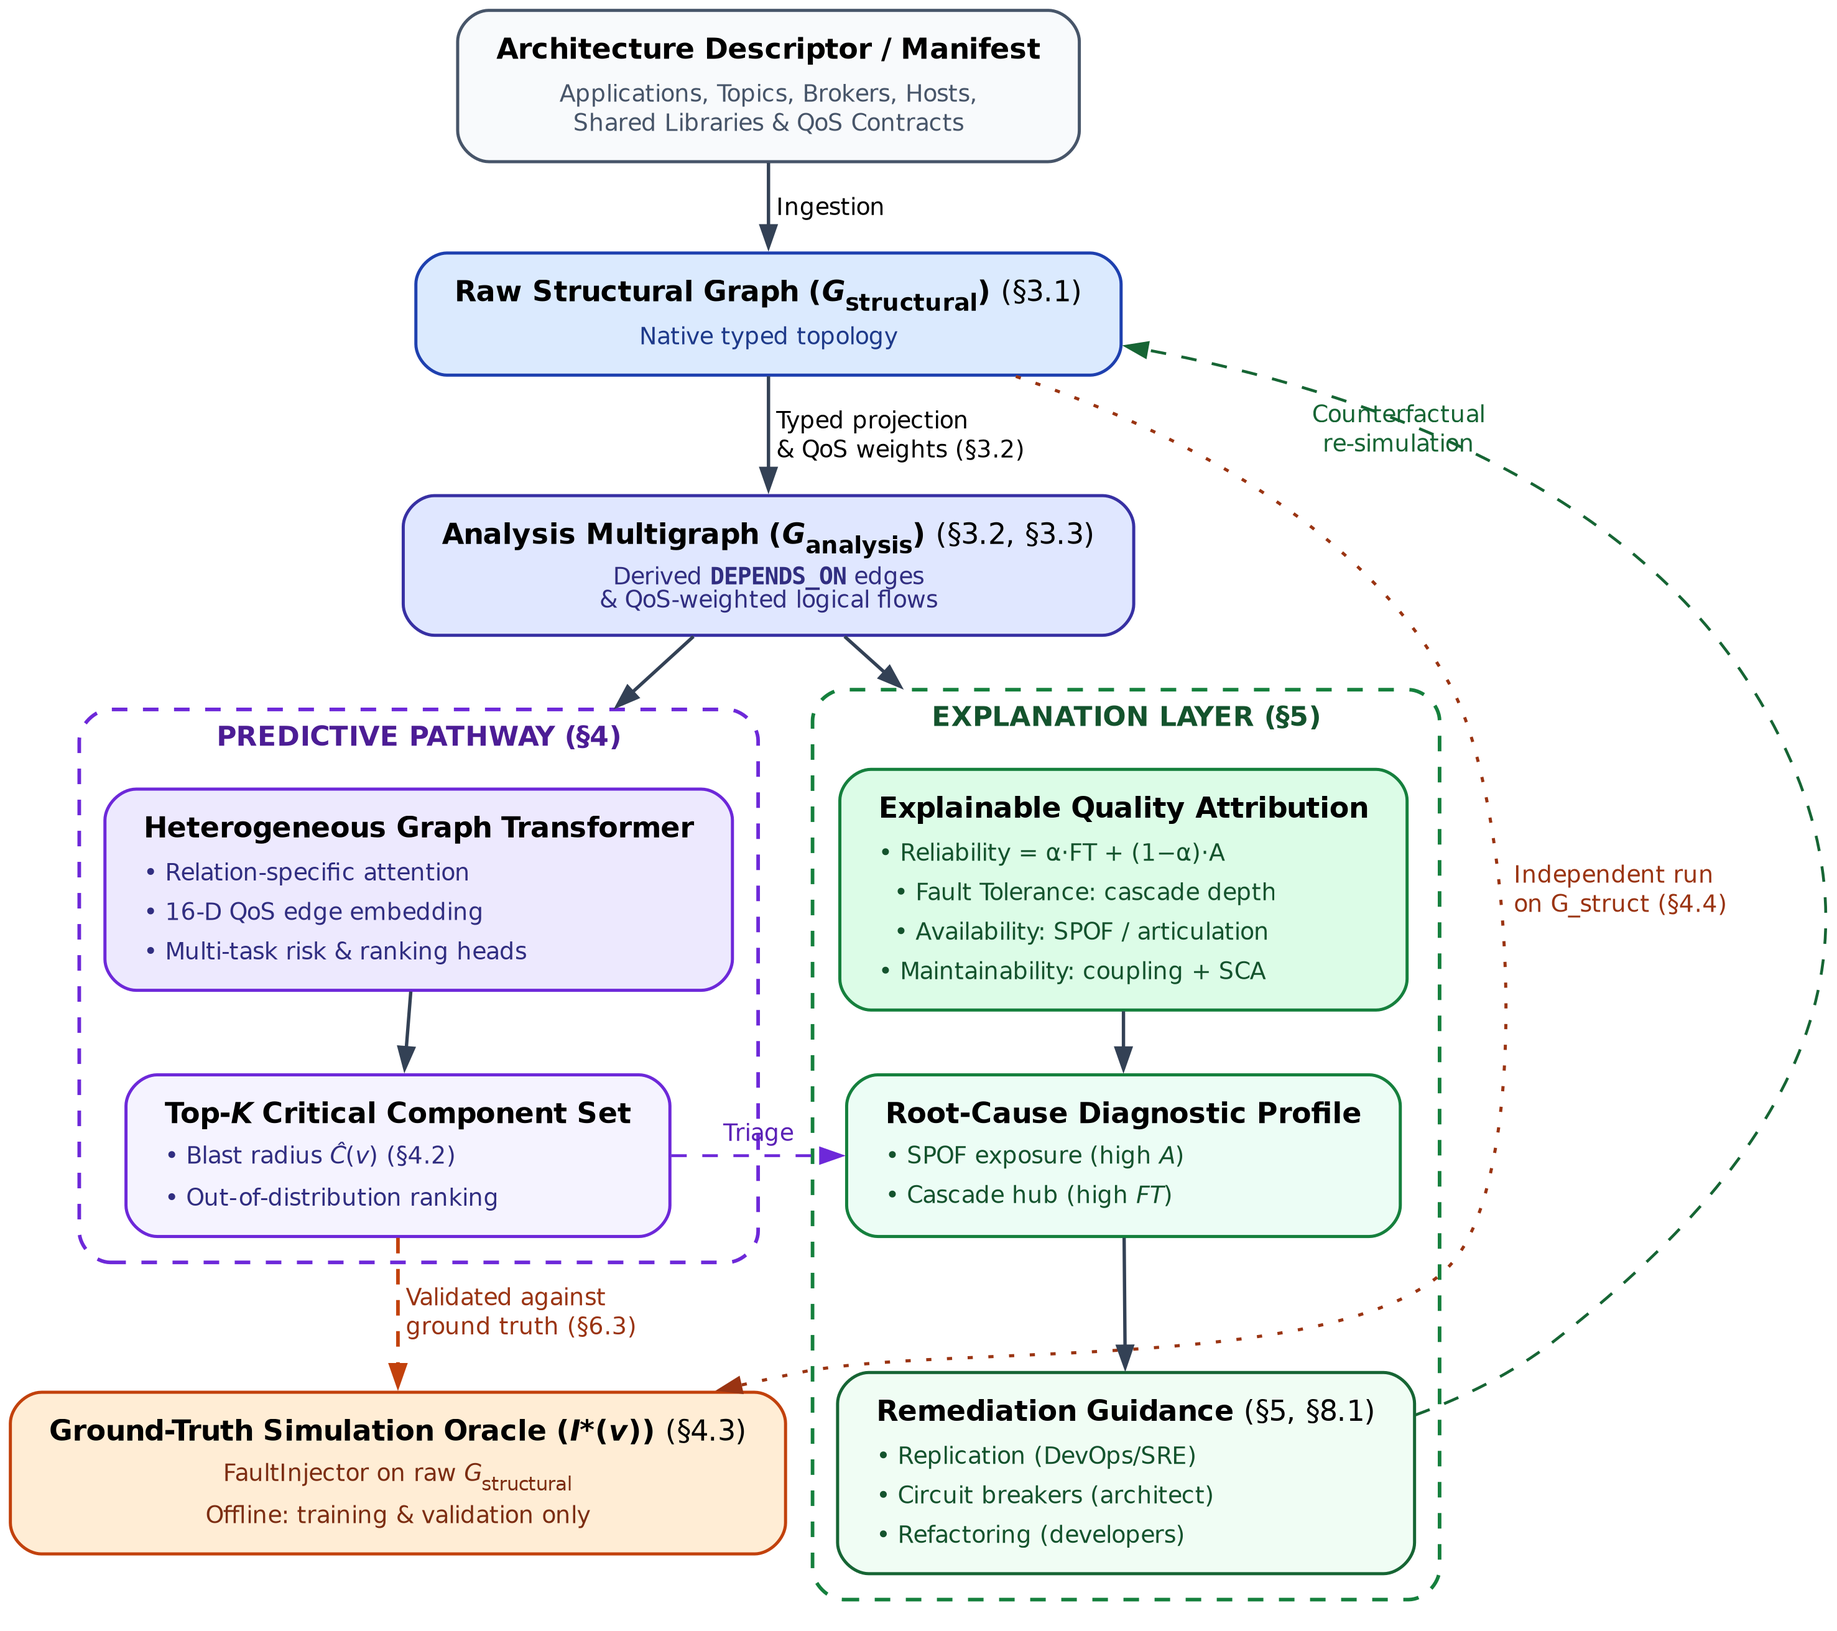
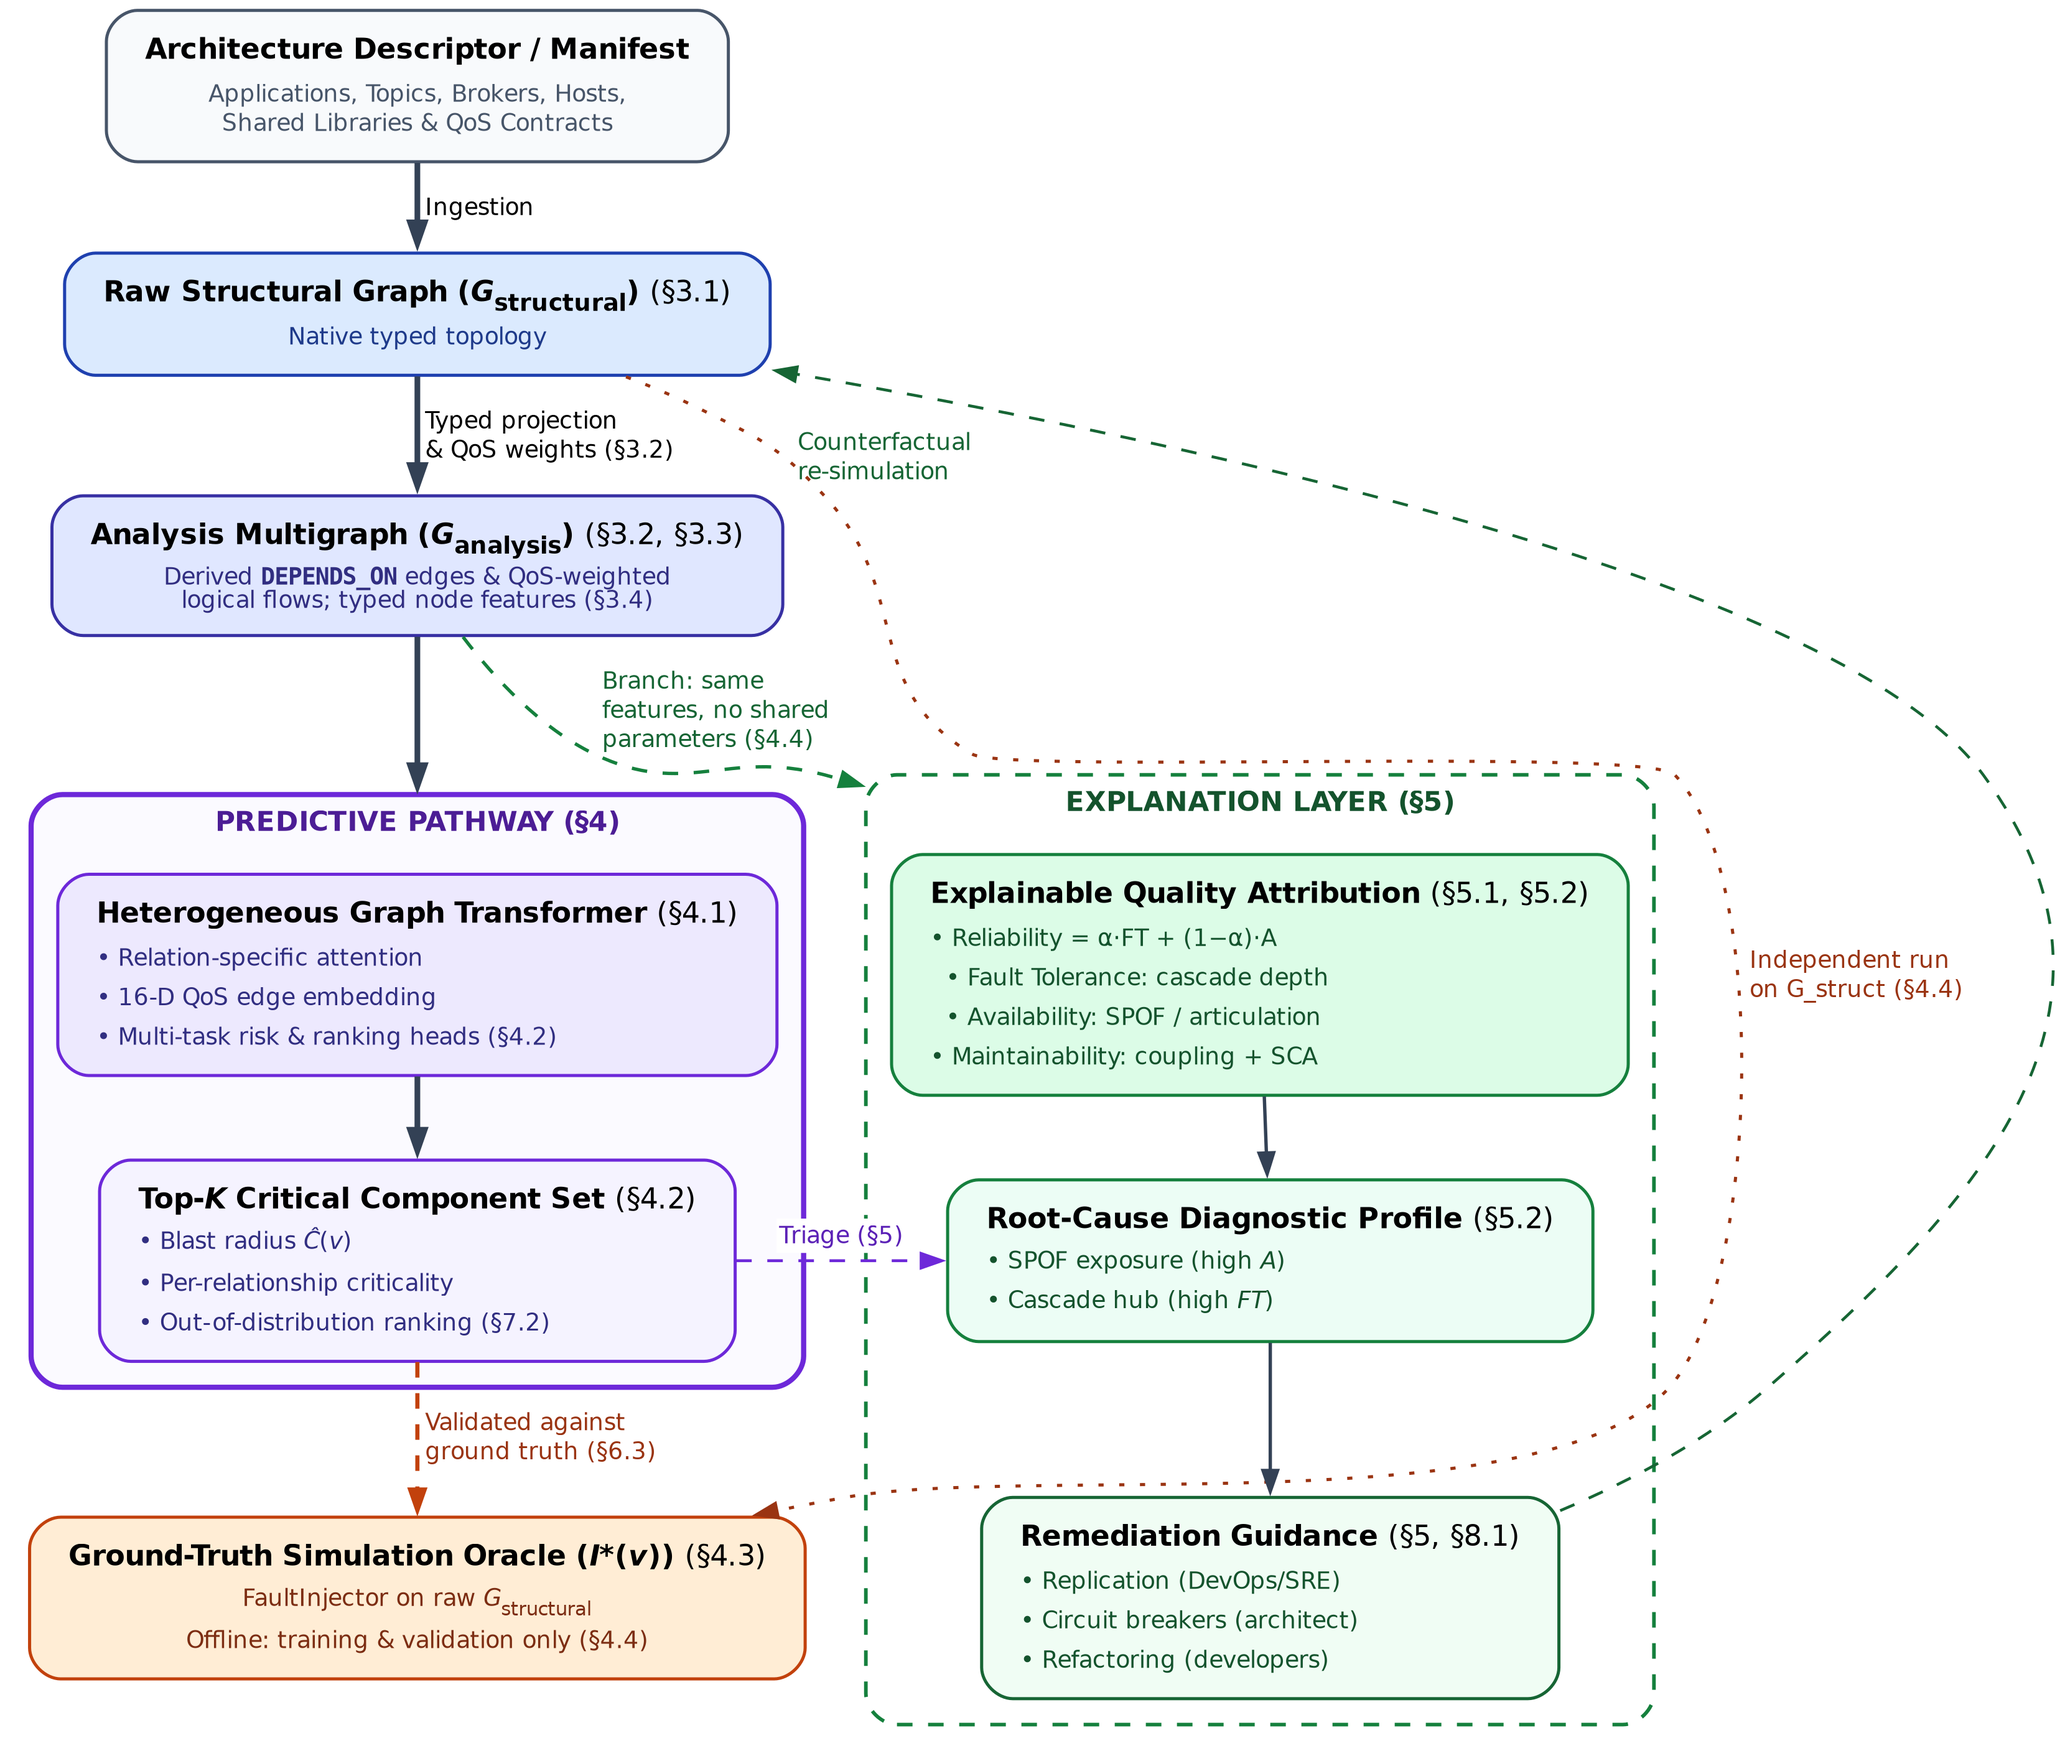
feat: update Figure 1 and its description in the introduction section for clarity and detail

Changed region(s): [[0.0, 0.0, 0.9343, 0.9882], [0.7163, 0.247, 0.8097, 0.2779], [0.7786, 0.772, 0.8097, 0.8029]]

diff --git a/docs/research/jss/latex/sections/sec1_introduction.tex b/docs/research/jss/latex/sections/sec1_introduction.tex
@@ -52,8 +52,8 @@ Figure~\ref{fig:1} shows how the two pathways relate. The predictive pathway is 
 
 \begin{figure}[htbp]
 \centering
-\includegraphics[width=0.78\linewidth]{figures/Figure_1}
-\caption{End-to-end architecture of the SaG framework. A shared front end (manifest ingestion $\to$ typed multigraph $\to$ QoS-weighted \texttt{DEPENDS\_ON} projection $\to$ typed node features) feeds two pathways that share no parameters: the predictive pathway (Section~\ref{sec:4}), which emits a ranked critical set and per-relationship criticality, and the explanation layer (Section~\ref{sec:5}), which emits a standards-grounded quality profile. The simulation oracle scores only the former and runs on $G_{\text{structural}}$ alone.}
+\includegraphics[width=\linewidth]{figures/Figure_1}
+\caption{End-to-end architecture of the SaG framework. The predictive pathway (Section~\ref{sec:4}) is the centre line and runs straight down it: manifest ingestion $\to$ typed multigraph $\to$ QoS-weighted \texttt{DEPENDS\_ON} projection $\to$ typed node features $\to$ heterogeneous graph learning $\to$ a ranked critical set with per-relationship criticality $\to$ the ground-truth simulation oracle (Section~\ref{sec:4.3}) that scores it. The oracle closes the predictive pathway's training-and-validation loop and runs on $G_{\text{structural}}$ alone; it is offline and never a stage of inference (Section~\ref{sec:4.4}), which is why the edge into it is dashed. The explanation layer (Section~\ref{sec:5}) is the one branch off that line: it re-enters from the analysis multigraph, emits a standards-grounded quality profile from the same typed features while sharing no parameters with the predictor, and is reached by triage rather than by data flow.}
 \label{fig:1}
 \end{figure}
 
